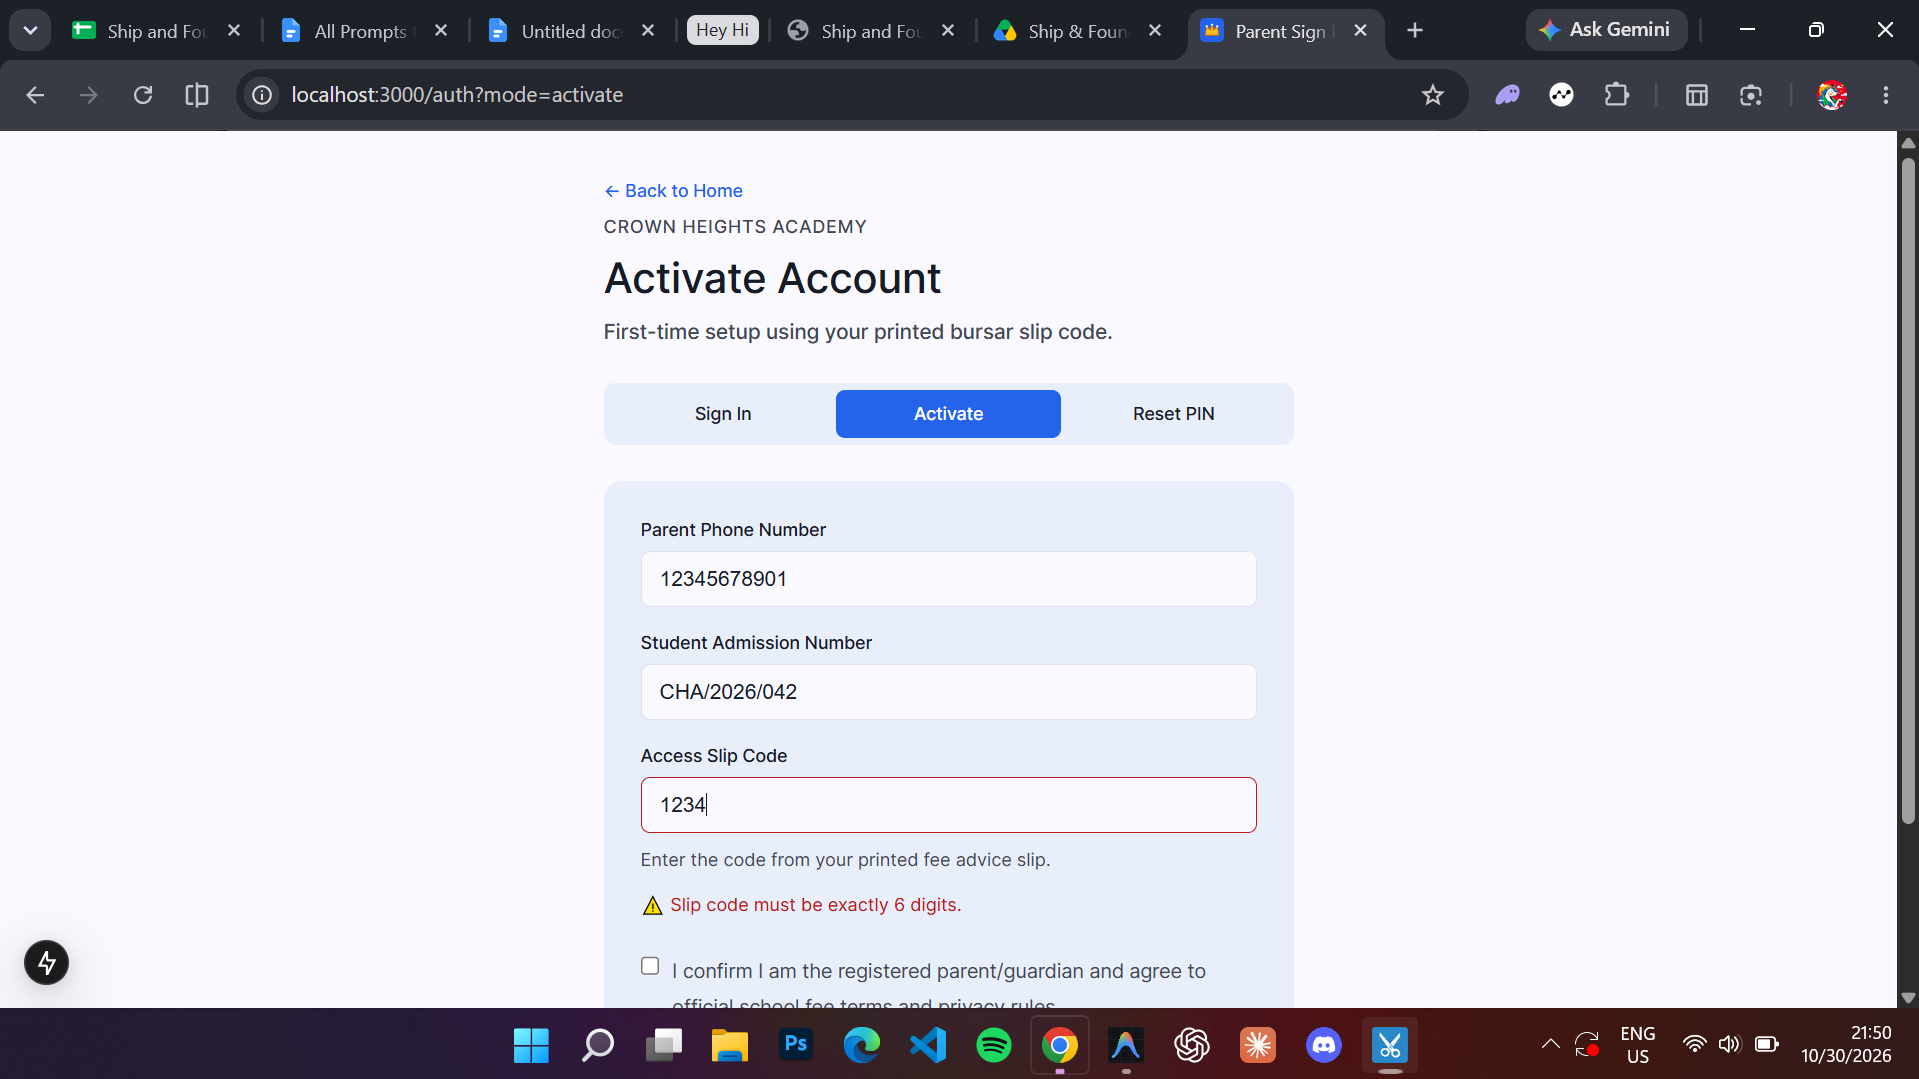
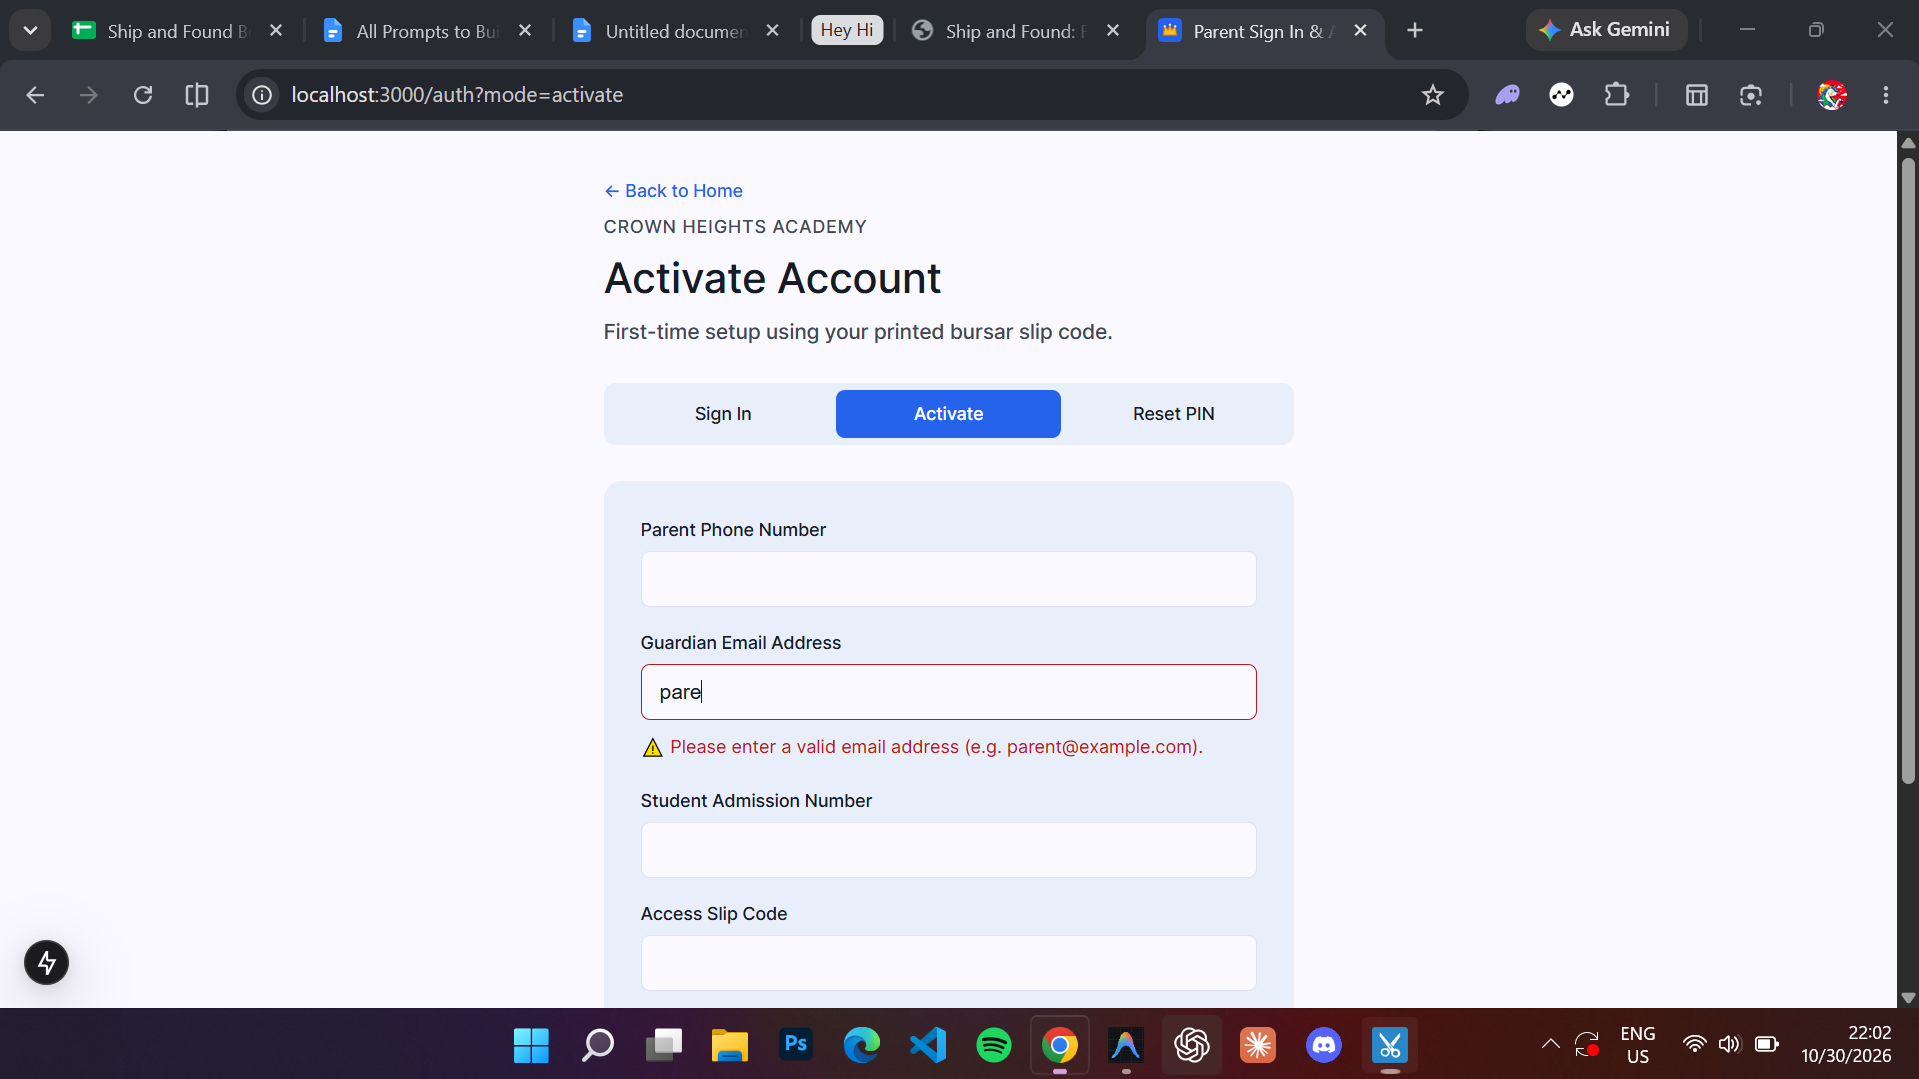
fix(auth): restrict login credentials strictly to phone and PIN, maintaining email on activate and reset

diff --git a/components/auth-unified-form.tsx b/components/auth-unified-form.tsx
@@ -163,10 +163,8 @@ export function AuthUnifiedForm() {
   // Determine if form is completely valid
   const isLoginFormValid = Boolean(
     phone.length >= 10 &&
-    email.trim().length > 0 &&
     pin.length === 4 &&
     !errors.phone &&
-    !errors.email &&
     !errors.pin
   );
   const isActivateFormValid = Boolean(
@@ -193,28 +191,39 @@ export function AuthUnifiedForm() {
 
   // Trigger complete validation across all fields and explain blockers (Step 7)
   const triggerValidationAndExplain = () => {
-    // 1. Mark all fields as touched
-    setTouched({
-      phone: true,
-      email: true,
-      pin: true,
-      studentId: true,
-      slipCode: true,
-      terms: true,
-    });
+    // 1. Mark all fields as touched for active mode
+    if (mode === 'login') {
+      setTouched({
+        phone: true,
+        pin: true,
+      });
+    } else if (mode === 'activate') {
+      setTouched({
+        phone: true,
+        email: true,
+        studentId: true,
+        slipCode: true,
+        terms: true,
+      });
+    } else {
+      setTouched({
+        phone: true,
+        email: true,
+      });
+    }
 
     // 2. Validate every relevant field for the current active mode
     const newErrors: FormErrors = {};
     const phoneErr = validateField('phone', phone);
     if (phoneErr) newErrors.phone = phoneErr;
 
-    const emailErr = validateField('email', email);
-    if (emailErr) newErrors.email = emailErr;
-
     if (mode === 'login') {
       const pinErr = validateField('pin', pin);
       if (pinErr) newErrors.pin = pinErr;
     } else if (mode === 'activate') {
+      const emailErr = validateField('email', email);
+      if (emailErr) newErrors.email = emailErr;
+
       const studentErr = validateField('studentId', studentId);
       if (studentErr) newErrors.studentId = studentErr;
 
@@ -223,6 +232,9 @@ export function AuthUnifiedForm() {
 
       const termsErr = validateField('terms', acceptTerms);
       if (termsErr) newErrors.terms = termsErr;
+    } else if (mode === 'reset') {
+      const emailErr = validateField('email', email);
+      if (emailErr) newErrors.email = emailErr;
     }
 
     setErrors(newErrors);
@@ -232,14 +244,16 @@ export function AuthUnifiedForm() {
       setDisabledButtonClickReason('Please review and accept the Terms & Conditions before activating.');
     } else if (phoneErr) {
       setDisabledButtonClickReason(phoneErr);
-    } else if (emailErr) {
-      setDisabledButtonClickReason(emailErr);
     } else if (mode === 'login' && newErrors.pin) {
       setDisabledButtonClickReason(newErrors.pin);
+    } else if (mode === 'activate' && newErrors.email) {
+      setDisabledButtonClickReason(newErrors.email);
     } else if (mode === 'activate' && newErrors.slipCode) {
       setDisabledButtonClickReason(newErrors.slipCode);
     } else if (mode === 'activate' && newErrors.studentId) {
       setDisabledButtonClickReason(newErrors.studentId);
+    } else if (mode === 'reset' && newErrors.email) {
+      setDisabledButtonClickReason(newErrors.email);
     } else {
       setDisabledButtonClickReason('Please complete all required fields correctly to proceed.');
     }
@@ -482,45 +496,47 @@ export function AuthUnifiedForm() {
             )}
           </div>
 
-          {/* Field: Guardian Email (Category 3: Real-time on activate, on-submit on login) */}
-          <div style={{ display: 'flex', flexDirection: 'column', gap: '0.375rem' }}>
-            <label htmlFor="email" className="text-label-medium">
-              Guardian Email Address
-            </label>
-            <input
-              id="email"
-              name="email"
-              type="email"
-              autoComplete="email"
-              required
-              aria-required="true"
-              aria-invalid={Boolean(errors.email)}
-              aria-describedby={errors.email ? 'email-error' : (mode === 'activate' && email.length > 0 && !errors.email ? 'email-success' : undefined)}
-              placeholder="e.g. parent@example.com"
-              value={email}
-              onChange={handleEmailChange}
-              onBlur={(e) => handleBlur('email', e.target.value)}
-              style={{
-                padding: '0.625rem 0.75rem',
-                borderRadius: '0.375rem',
-                border: `1px solid ${errors.email ? 'var(--color-error)' : 'var(--color-outline)'}`,
-                backgroundColor: 'var(--color-surface)',
-                color: 'var(--color-on-surface)',
-                fontSize: '0.875rem',
-                outline: 'none',
-              }}
-            />
-            {mode === 'activate' && email.length > 0 && !errors.email && (
-              <span id="email-success" style={{ fontSize: '0.75rem', color: 'var(--color-primary)', display: 'flex', alignItems: 'center', gap: '4px' }}>
-                ✓ Valid email format
-              </span>
-            )}
-            {errors.email && (
-              <span id="email-error" role="alert" style={{ fontSize: '0.75rem', color: 'var(--color-error)', display: 'flex', alignItems: 'center', gap: '4px' }}>
-                ⚠ {errors.email}
-              </span>
-            )}
-          </div>
+          {/* Field: Guardian Email (Category 3: Only on activate and reset) */}
+          {mode !== 'login' && (
+            <div style={{ display: 'flex', flexDirection: 'column', gap: '0.375rem' }}>
+              <label htmlFor="email" className="text-label-medium">
+                Guardian Email Address
+              </label>
+              <input
+                id="email"
+                name="email"
+                type="email"
+                autoComplete="email"
+                required
+                aria-required="true"
+                aria-invalid={Boolean(errors.email)}
+                aria-describedby={errors.email ? 'email-error' : (mode === 'activate' && email.length > 0 && !errors.email ? 'email-success' : undefined)}
+                placeholder="e.g. parent@example.com"
+                value={email}
+                onChange={handleEmailChange}
+                onBlur={(e) => handleBlur('email', e.target.value)}
+                style={{
+                  padding: '0.625rem 0.75rem',
+                  borderRadius: '0.375rem',
+                  border: `1px solid ${errors.email ? 'var(--color-error)' : 'var(--color-outline)'}`,
+                  backgroundColor: 'var(--color-surface)',
+                  color: 'var(--color-on-surface)',
+                  fontSize: '0.875rem',
+                  outline: 'none',
+                }}
+              />
+              {mode === 'activate' && email.length > 0 && !errors.email && (
+                <span id="email-success" style={{ fontSize: '0.75rem', color: 'var(--color-primary)', display: 'flex', alignItems: 'center', gap: '4px' }}>
+                  ✓ Valid email format
+                </span>
+              )}
+              {errors.email && (
+                <span id="email-error" role="alert" style={{ fontSize: '0.75rem', color: 'var(--color-error)', display: 'flex', alignItems: 'center', gap: '4px' }}>
+                  ⚠ {errors.email}
+                </span>
+              )}
+            </div>
+          )}
 
           {/* Mode-Specific Field: Student ID (Only for Activation) */}
           {mode === 'activate' && (
